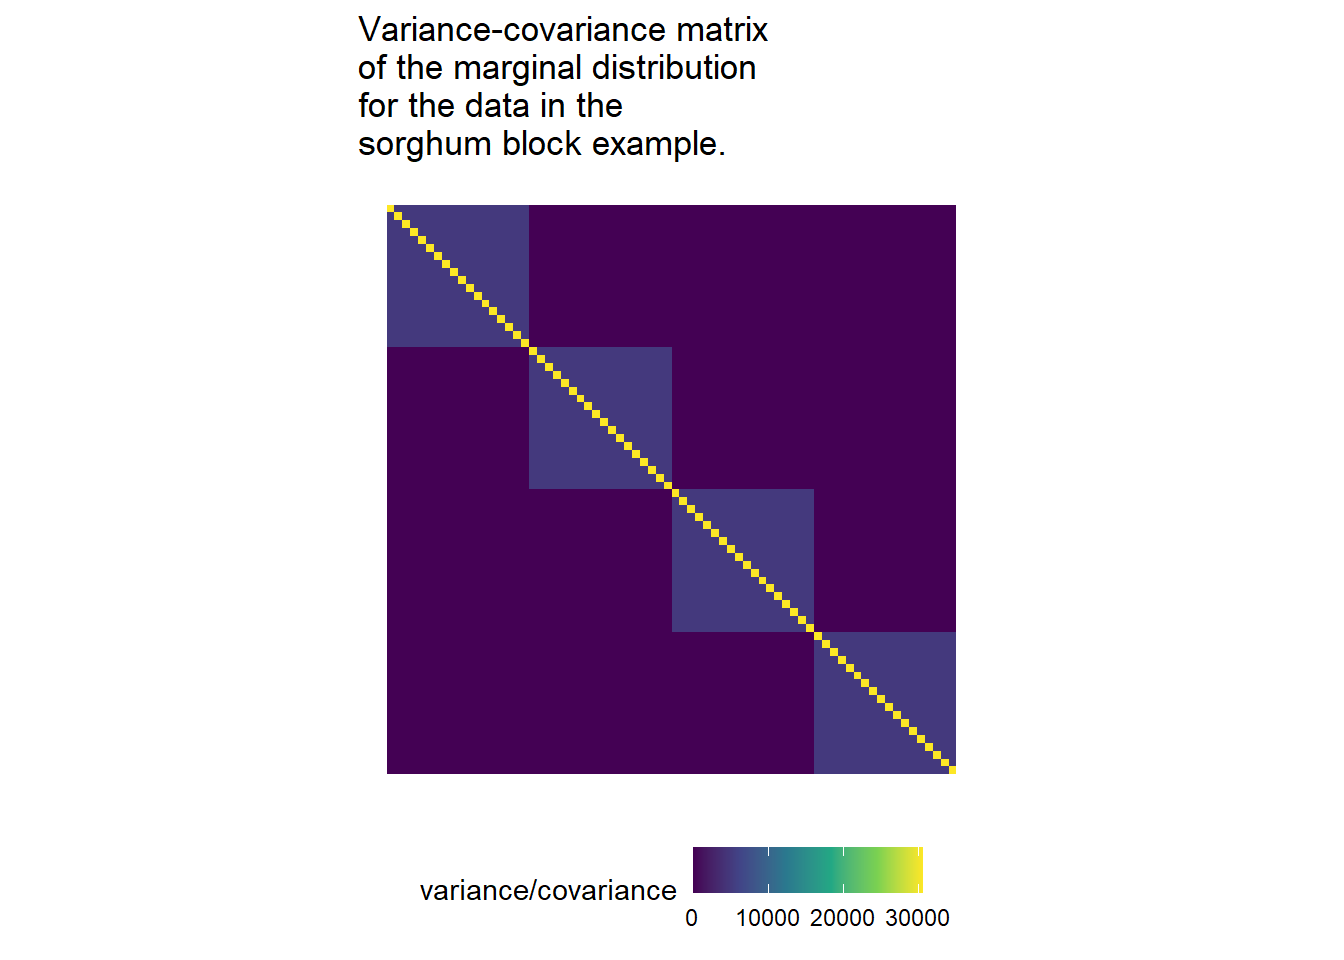
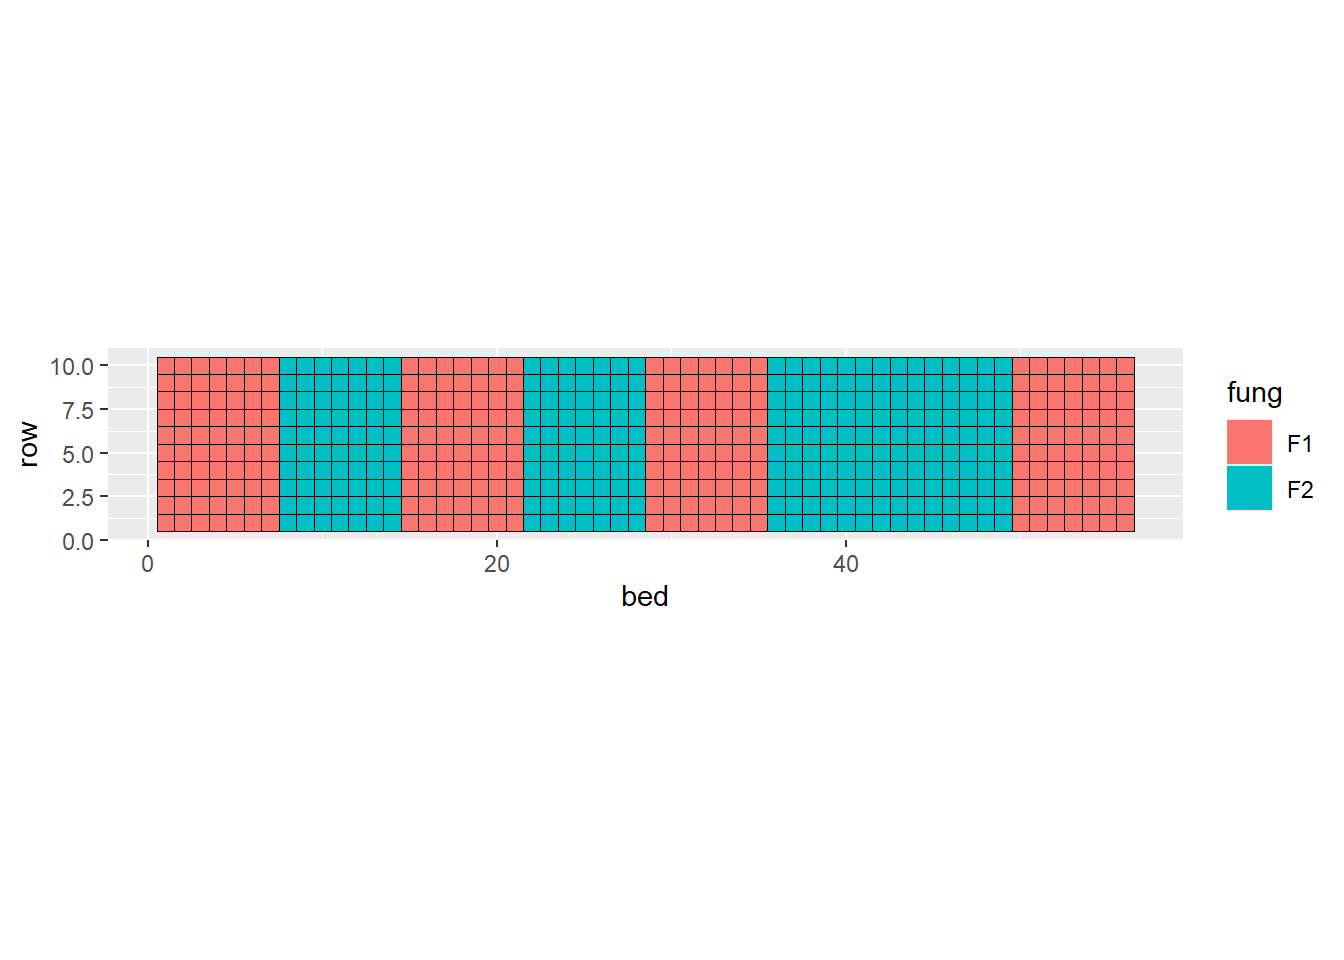
typo

diff --git a/notes/designed-experiments-review-1.html b/notes/designed-experiments-review-1.html
@@ -252,7 +252,7 @@ code span.wa { color: #60a0b0; font-weight: bold; font-style: italic; } /* Warni
 <li>Randomization</li>
 <li>Local control</li>
 </ul>
-<div class="figure" style="text-align: center"><span style="display:block;" id="fig:unnamed-chunk-12"></span>
+<div class="figure" style="text-align: center"><span style="display:block;" id="fig:unnamed-chunk-6"></span>
 <img src="../figures/principles.jpg" alt="Principles for conducting valid and efficient experiments. From Box, Hunter and Hunter (2005)." width="80%" />
 <p class="caption">
 Figure 2.1: Principles for conducting valid and efficient experiments. From Box, Hunter and Hunter (2005).
@@ -268,7 +268,7 @@ Figure 2.1: Principles for conducting valid and efficient experiments. From Box,
 <li>Solely about the treatment.</li>
 <li>Most likely connected to the research question and thus defined by the subject matter expert.</li>
 </ul>
-<div class="figure" style="text-align: center"><span style="display:block;" id="fig:unnamed-chunk-13"></span>
+<div class="figure" style="text-align: center"><span style="display:block;" id="fig:unnamed-chunk-7"></span>
 <img src="../figures/trtdesigns_oneway.PNG" alt="Schematic representation of a one-way treatment structure." width="80%" />
 <p class="caption">
 Figure 2.2: Schematic representation of a one-way treatment structure.
@@ -284,7 +284,7 @@ where:</p>
 <li><span class="math inline">\(\eta_{0}\)</span> is the overall mean, and</li>
 <li><span class="math inline">\(T_i\)</span> is the effect of the <span class="math inline">\(i\)</span>th level of the treatment <span class="math inline">\(T\)</span>.</li>
 </ul>
-<div class="figure" style="text-align: center"><span style="display:block;" id="fig:unnamed-chunk-14"></span>
+<div class="figure" style="text-align: center"><span style="display:block;" id="fig:unnamed-chunk-8"></span>
 <img src="../figures/trtdesigns_twoway.PNG" alt="Schematic representation of a two-way factorial treatment structure." width="80%" />
 <p class="caption">
 Figure 2.3: Schematic representation of a two-way factorial treatment structure.
@@ -303,20 +303,20 @@ where:</p>
 <li><span class="math inline">\(G_j\)</span> is the effect of the <span class="math inline">\(j\)</span>th level of the treatment <span class="math inline">\(G\)</span>, and</li>
 <li><span class="math inline">\((TG)_{ij}\)</span> is the interaction between the <span class="math inline">\(i\)</span>th level of treatment <span class="math inline">\(T\)</span>, and <span class="math inline">\(j\)</span>th level of treatment <span class="math inline">\(G\)</span>.</li>
 </ul>
-<div class="figure" style="text-align: center"><span style="display:block;" id="fig:unnamed-chunk-15"></span>
+<div class="figure" style="text-align: center"><span style="display:block;" id="fig:unnamed-chunk-9"></span>
 <img src="../figures/trtdesigns_threeway.PNG" alt="Schematic representation of a tree-way factorial treatment structure." width="80%" />
 <p class="caption">
 Figure 2.4: Schematic representation of a tree-way factorial treatment structure.
 </p>
 </div>
 <p>Other treatment structures:</p>
-<div class="figure" style="text-align: center"><span style="display:block;" id="fig:unnamed-chunk-16"></span>
+<div class="figure" style="text-align: center"><span style="display:block;" id="fig:unnamed-chunk-10"></span>
 <img src="../figures/trtdesigns_twowayfract.PNG" alt="Schematic representation of a two-way fractional factorial treatment structure." width="80%" />
 <p class="caption">
 Figure 2.5: Schematic representation of a two-way fractional factorial treatment structure.
 </p>
 </div>
-<div class="figure" style="text-align: center"><span style="display:block;" id="fig:unnamed-chunk-17"></span>
+<div class="figure" style="text-align: center"><span style="display:block;" id="fig:unnamed-chunk-11"></span>
 <img src="../figures/trtdesigns_twoway_control.PNG" alt="Schematic representation of a two-way factorial plus a control treatment structure." width="80%" />
 <p class="caption">
 Figure 2.6: Schematic representation of a two-way factorial plus a control treatment structure.
@@ -349,19 +349,19 @@ Some of the most common designed experiments include</p>
 <li>repeated measures designs.</li>
 </ul></li>
 </ul>
-<div class="figure"><span style="display:block;" id="fig:unnamed-chunk-18"></span>
+<div class="figure"><span style="display:block;" id="fig:unnamed-chunk-12"></span>
 <img src="../figures/designs_crd.PNG" alt="Schematic description of an experiment with a completely randomized design" width="100%" />
 <p class="caption">
 Figure 2.7: Schematic description of an experiment with a completely randomized design
 </p>
 </div>
-<div class="figure"><span style="display:block;" id="fig:unnamed-chunk-19"></span>
+<div class="figure"><span style="display:block;" id="fig:unnamed-chunk-13"></span>
 <img src="../figures/designs_rcbd.PNG" alt="Schematic description of an experiment with a randomized complete block design" width="100%" />
 <p class="caption">
 Figure 2.8: Schematic description of an experiment with a randomized complete block design
 </p>
 </div>
-<div class="figure"><span style="display:block;" id="fig:unnamed-chunk-20"></span>
+<div class="figure"><span style="display:block;" id="fig:unnamed-chunk-14"></span>
 <img src="../figures/designs_splitplot.PNG" alt="Schematic description of a field experiment with a split-plot design" width="100%" />
 <p class="caption">
 Figure 2.9: Schematic description of a field experiment with a split-plot design
@@ -376,7 +376,7 @@ Figure 2.9: Schematic description of a field experiment with a split-plot design
 <li>What is the distribution of the data?</li>
 <li>What is the structure in the data?</li>
 </ul>
-<div class="figure" style="text-align: center"><span style="display:block;" id="fig:unnamed-chunk-21"></span>
+<div class="figure" style="text-align: center"><span style="display:block;" id="fig:unnamed-chunk-15"></span>
 <img src="../figures/mindmap2.jpg" alt="Schematic representation of the relationship between the experiment design and the statistical model." width="80%" />
 <p class="caption">
 Figure 2.10: Schematic representation of the relationship between the experiment design and the statistical model.

diff --git a/notes/linear-mixed-models.html b/notes/linear-mixed-models.html
@@ -445,7 +445,7 @@ Usually, we assume <span class="math display">\[\mathbf{G} = \sigma^2_u
 0 &amp; 0 &amp; 0 &amp; 0 &amp; 0 &amp; 0 &amp; \dots &amp; \sigma^2 + \sigma^2_u
 \end{bmatrix}.\]</span></p>
 <p>Take your time to digest the variance-covariance matrix above. What type of data do you think generated it?</p>
-<p><img src="bookdownproj_files/figure-html/unnamed-chunk-32-1.png" alt="" width="672" /></p>
+<p><img src="bookdownproj_files/figure-html/unnamed-chunk-26-1.png" alt="" width="672" /></p>
 <div id="random-effects-1" class="section level3 hasAnchor" number="4.3.1">
 <h3><span class="header-section-number">4.3.1</span> Random effects<a href="linear-mixed-models.html#random-effects-1" class="anchor-section" aria-label="Anchor link to header"></a></h3>
 <ul>
@@ -510,7 +510,7 @@ where <span class="math inline">\(p = rank(\mathbf{X})\)</span>, <span class="ma
 <li>Blocks as random:
 <ul>
 <li><span class="math inline">\(se(\hat{\mu_{i}}) = \sqrt{\frac{\sigma^2_\varepsilon+\sigma^2_b}{\# blocks}}\)</span></li>
-<li><span class="math inline">\(se(\widehat{\mu_{i}-\mu_{i&#39;}}) = \sqrt{\frac{2(\sigma^2_\varepsilon+\sigma^2_b)}{\# blocks}}\)</span></li>
+<li><span class="math inline">\(se(\widehat{\mu_{i}-\mu_{i&#39;}}) = \sqrt{\frac{2(\sigma^2_\varepsilon)}{\# blocks}}\)</span></li>
 </ul></li>
 </ul>
 </div>
@@ -536,7 +536,7 @@ where <span class="math inline">\(p = rank(\mathbf{X})\)</span>, <span class="ma
 <span id="cb16-5"><a href="linear-mixed-models.html#cb16-5" tabindex="-1"></a>  <span class="fu">coord_fixed</span>()<span class="sc">+</span></span>
 <span id="cb16-6"><a href="linear-mixed-models.html#cb16-6" tabindex="-1"></a>  <span class="fu">geom_tile</span>(<span class="fu">aes</span>(<span class="at">fill =</span> fung))<span class="sc">+</span></span>
 <span id="cb16-7"><a href="linear-mixed-models.html#cb16-7" tabindex="-1"></a>  <span class="fu">geom_tile</span>(<span class="fu">aes</span>(), <span class="at">color =</span> <span class="st">&quot;black&quot;</span>, <span class="at">fill =</span> <span class="cn">NA</span>)</span></code></pre></div>
-<p><img src="bookdownproj_files/figure-html/unnamed-chunk-34-1.png" alt="" width="672" /></p>
+<p><img src="bookdownproj_files/figure-html/unnamed-chunk-28-1.png" alt="" width="672" /></p>
 <ul>
 <li>What is the treatment structure?</li>
 <li>What are the experimental units?</li>

diff --git a/notes/designed-experiments-connection-to-linear-mixed-models.html b/notes/designed-experiments-connection-to-linear-mixed-models.html
@@ -282,19 +282,19 @@ Some of the most common designed experiments include:</p>
 <li>repeated measures designs.</li>
 </ul></li>
 </ul>
-<div class="figure"><span style="display:block;" id="fig:unnamed-chunk-22"></span>
+<div class="figure"><span style="display:block;" id="fig:unnamed-chunk-16"></span>
 <img src="../figures/designs_crd.PNG" alt="Schematic description of an experiment with a completely randomized design" width="100%" />
 <p class="caption">
 Figure 3.1: Schematic description of an experiment with a completely randomized design
 </p>
 </div>
-<div class="figure"><span style="display:block;" id="fig:unnamed-chunk-23"></span>
+<div class="figure"><span style="display:block;" id="fig:unnamed-chunk-17"></span>
 <img src="../figures/designs_rcbd.PNG" alt="Schematic description of an experiment with a randomized complete block design" width="100%" />
 <p class="caption">
 Figure 3.2: Schematic description of an experiment with a randomized complete block design
 </p>
 </div>
-<div class="figure"><span style="display:block;" id="fig:unnamed-chunk-24"></span>
+<div class="figure"><span style="display:block;" id="fig:unnamed-chunk-18"></span>
 <img src="../figures/designs_splitplot.PNG" alt="Schematic description of a field experiment with a split-plot design" width="100%" />
 <p class="caption">
 Figure 3.3: Schematic description of a field experiment with a split-plot design
@@ -492,7 +492,7 @@ Usually, we assume <span class="math display">\[\mathbf{G} = \sigma^2_u
 0 &amp; 0 &amp; 0 &amp; 0 &amp; 0 &amp; 0 &amp; \dots &amp; \sigma^2 + \sigma^2_u
 \end{bmatrix}.\]</span></p>
 <p>Take your time to digest the variance-covariance matrix above. What type of data do you think generated it?</p>
-<p><img src="bookdownproj_files/figure-html/unnamed-chunk-28-1.png" alt="" width="672" /></p>
+<p><img src="bookdownproj_files/figure-html/unnamed-chunk-22-1.png" alt="" width="672" /></p>
 <div id="random-effects" class="section level3 hasAnchor" number="3.5.1">
 <h3><span class="header-section-number">3.5.1</span> Random effects<a href="designed-experiments-connection-to-linear-mixed-models.html#random-effects" class="anchor-section" aria-label="Anchor link to header"></a></h3>
 <ul>

diff --git a/notes/index.html b/notes/index.html
@@ -248,7 +248,7 @@ code span.wa { color: #60a0b0; font-weight: bold; font-style: italic; } /* Warni
 <li><a href="https://jlacasa.github.io/">About me</a></li>
 <li>About you:</li>
 </ul>
-<div class="figure" style="text-align: center"><span style="display:block;" id="fig:unnamed-chunk-7"></span>
+<div class="figure" style="text-align: center"><span style="display:block;" id="fig:unnamed-chunk-1"></span>
 <img src="../figures/students.jpg" alt="Students of this class" width="80%" />
 <p class="caption">
 Figure 1.1: Students of this class
@@ -288,7 +288,7 @@ Figure 1.1: Students of this class
 </div>
 <div id="overview-of-the-course" class="section level2 hasAnchor" number="1.3">
 <h2><span class="header-section-number">1.3</span> Overview of the course<a href="index.html#overview-of-the-course" class="anchor-section" aria-label="Anchor link to header"></a></h2>
-<div class="figure" style="text-align: center"><span style="display:block;" id="fig:unnamed-chunk-10"></span>
+<div class="figure" style="text-align: center"><span style="display:block;" id="fig:unnamed-chunk-4"></span>
 <img src="../figures/mindmap_1.jpg" alt="Mindmap" width="80%" />
 <p class="caption">
 Figure 1.2: Mindmap
@@ -364,7 +364,7 @@ where:</p>
 <li>What is the link function?</li>
 <li>What is the blueprint of the design/data?</li>
 </ul>
-<div class="figure" style="text-align: center"><span style="display:block;" id="fig:unnamed-chunk-11"></span>
+<div class="figure" style="text-align: center"><span style="display:block;" id="fig:unnamed-chunk-5"></span>
 <img src="../figures/stroup_distributions.jpg" alt="Common variable distributions. Page 60 in Stroup et al. (2024)" width="80%" />
 <p class="caption">
 Figure 1.3: Common variable distributions. Page 60 in Stroup et al. (2024)

diff --git a/notes/semester-project-1.html b/notes/semester-project-1.html
@@ -248,7 +248,7 @@ code span.wa { color: #60a0b0; font-weight: bold; font-style: italic; } /* Warni
 </div>
 <div id="partial-deadlines" class="section level2 hasAnchor" number="5.2">
 <h2><span class="header-section-number">5.2</span> Partial deadlines<a href="semester-project-1.html#partial-deadlines" class="anchor-section" aria-label="Anchor link to header"></a></h2>
-<div class="figure" style="text-align: center"><span style="display:block;" id="fig:unnamed-chunk-35"></span>
+<div class="figure" style="text-align: center"><span style="display:block;" id="fig:unnamed-chunk-29"></span>
 <img src="../figures/calendar870.jpg" alt="Project deadlines" width="80%" />
 <p class="caption">
 Figure 5.1: Project deadlines
